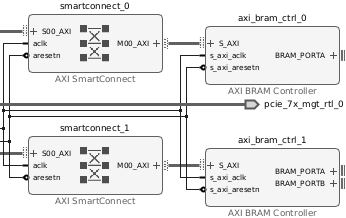
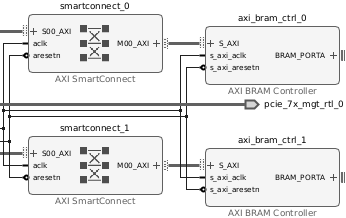
Updated XDMA Comm

Changed region(s): [[0.7803, 0.7431, 1.0, 0.8807]]

diff --git a/README.md b/README.md
@@ -109,6 +109,7 @@ The following is some minimal C code without error checking. Note `count=4` is f
 // Open M_AXI_LITE Device as Read-Write
 int xdma_userfd = open("/dev/xdma0_user", O_RDWR);
 
+#define XDMA_PCIe_to_AXI_Translation_Offset 0x40000000
 uint64_t address = 0x40010000 - XDMA_PCIe_to_AXI_Translation_Offset;
 uint32_t data_word = 0xAA55A55A;
 ssize_t rc;
@@ -146,7 +147,7 @@ sudo ./mm_axilite_test
 
 For the simple included demo, [`xdma_stream.tcl`](xdma_stream.tcl), twice as much data is sent than received. The design can be [recreated for other FPGA targets](#recreating-a-project-from-a-tcl-file). [Configuration bitstreams are available](https://github.com/mwrnd/notes/releases/v0.1.0/) for the [Innova-2](https://github.com/mwrnd/innova2_flex_xcku15p_notes).
 
-Each pair of input (H2C) floating-point values is multiplied to an output (C2H) floating-point value. To account for FIFOs built into the AXI4-Stream blocks, 16 floats (64-bytes) are sent and 8 are received. Data is sent and received to address `0` as it is a stream. The data stream sinks into **S_AXIS_C2H_?** and flows from **M_AXIS_H2C_?** interfaces. Refer to the [xdma_stream](https://github.com/mwrnd/innova2_experiments/tree/main/xdma_stream) and [xdma_stream_512bit](https://github.com/mwrnd/innova2_experiments/tree/main/xdma_stream_512bit) projects for demonstrations.
+Each pair of input (H2C) floating-point values is multiplied to an output (C2H) floating-point value. To account for FIFOs built into the AXI4-Stream blocks, 16 floats (64-bytes) are sent and 8 are received. Data is sent and received to address `0` as it is a stream. The data stream sinks into **S_AXIS_C2H_?** and flows from **M_AXIS_H2C_?** interfaces. Refer to the [xdma_stream](https://github.com/mwrnd/innova2_experiments/tree/main/xdma_stream) and [xdma_stream_512bit](https://github.com/mwrnd/innova2_experiments/tree/main/xdma_stream_512bit) projects for more complex demonstrations.
 
 ![XDMA Stream Demo Block Diagram](img/XDMA_Stream_Demo_Block_Diagram.png)
 
@@ -235,7 +236,7 @@ Add IP Blocks:
 
 #### Add XDMA Block
 
-Add XDMA Block:
+Add an XDMA Block:
 
 ![Add XDMA Block](img/Add_DMA_Bridge_Subsystem_for_PCI_Express_IP.png)
 
@@ -243,7 +244,7 @@ Run Block Automation:
 
 ![Run Block Automation](img/Run_Block_Automation.png)
 
-Choose PCIe Lane Width and Link Speed, select **AXI Memory Mapped** for the *DMA interface* and add an AXI Lite interface.
+Choose PCIe Lane Width and Link Speed compatible with your target board. Select **AXI Memory Mapped** for the *DMA interface* and add an AXI Lite interface.
 
 ![XDMA AXI Memory Mapped with AXI Lite](img/XDMA_Block_Automation_MM_and_AXILite.png)
 
@@ -255,17 +256,17 @@ Double-click the `xdma_0` Block to open it up for customization.
 
 ![XDMA Block Properties](img/XDMA_Block_Properties.png)
 
-The *PCIe Block Location* chosen should be the closest PCIE Block adjacent to the transceiver Quad that the PCIe lanes are connected to on your FPGA board. Refer to the [Device Packaging and Pinouts Product Specification User Guide](https://docs.xilinx.com/r/en-US/ug575-ultrascale-pkg-pinout/XCKU15P-and-XQKU15P-Bank-Diagrams). The PCIe Lane Width and Link Speed throughput needs to match the AXI Data Width and Clock Frequency throughput. These four settings are interrelated. Note the Data Width is 64-Bit with these selections.
+The *PCIe Block Location* chosen should be the closest PCIE Block adjacent to the transceiver Quad that the PCIe lanes are connected to on your FPGA board. Refer to the [Device Packaging and Pinouts Product Specification User Guide](https://docs.xilinx.com/r/en-US/ug575-ultrascale-pkg-pinout/XCKU15P-and-XQKU15P-Bank-Diagrams).
 
 ![FPGA Banks](img/FPGA_Banks.png)
-
-A *PCIe to AXI Translation* offset is useful to make sure the *Size* of your AXI Lite BAR overlaps the address space of all peripheral blocks. This is useful when a soft-core processor has all of its peripherals in some specific address range. The offset can be `0` or [larger than *Size*](https://support.xilinx.com/s/question/0D52E00006hpbPJSAY/pcie-to-axi-translation-setting-for-dma-bypass-interface-not-being-applied?language=en_US).
-
-![AXI Lite BAR Setup](img/XDMA_Block_Properties_AXILite_BAR_Setup.png)
 
 Set the PCIe ID to **Memory Controller** as the *Base Class* and **Other memory controller** as the *Sub Class*.
 
 ![PCIe ID Settings](img/XDMA_Settings_PCIe_ID.png)
+
+A *PCIe to AXI Translation* offset is useful to make sure the *Size* of your AXI Lite BAR overlaps the address space of all peripheral blocks. This is useful when a soft-core processor has all of its peripherals in some specific address range. The offset can be `0` or [larger than *Size*](https://support.xilinx.com/s/question/0D52E00006hpbPJSAY/pcie-to-axi-translation-setting-for-dma-bypass-interface-not-being-applied?language=en_US): `1MB==1048576==0x100000 < 0x40000000`.
+
+![AXI Lite BAR Setup](img/XDMA_Block_Properties_AXILite_BAR_Setup.png)
 
 The XDMA Driver will create a `/dev/xdma0_?` file for each channel. Multiple channels allow multiple programs or threads to access the AXI blocks in your design.
 
@@ -293,7 +294,7 @@ Add AXI BRAM Controller:
 
 ![Add AXI BRAM Controller](img/Add_AXI_BRAM_Controller_IP.png)
 
-Add blocks for each SmartConnect interface:
+Add blocks for each SmartConnect interface and connect their `S_AXIS` ports to the corresponding `M_AXIS` port of the SmartConnect blocks.
 
 ![BRAM Controller Block for each SmartConnectInterface](img/BRAM_Controller_Blocks_for_each_SmartConnect_Interface.png)
 
@@ -301,7 +302,7 @@ Run Block Automation and choose to generate a new Block Memory for each (*New Bl
 
 ![AXI BRAM Controller New Blk_Mem_Gen](img/AXI_BRAM_Controller_Block_Automation.png)
 
-A [Memory Generator Block](https://docs.xilinx.com/v/u/en-US/pg058-blk-mem-gen) should appear for each BRAM Controller.
+A [Block Memory Generator](https://docs.xilinx.com/v/u/en-US/pg058-blk-mem-gen) should appear for each BRAM Controller.
 
 ![Block Memory Generator for each BRAM Controller](img/Block_Memory_Generator_Blocks_for_each_BRAM_Controller.png)
 
@@ -309,7 +310,7 @@ Double-click the `axi_bram_ctrl_0` block connected to the PCIe **M_AXI** interfa
 
 ![M_AXI BRAM Controller Data Width is 64-Bit](img/AXI_BRAM_Controller_Block_Properties_AXI_64Bit.png)
 
-Double-click the `axi_bram_ctrl_1` block connected to the PCIe **M_AXI_LITE** interface and choose *AXI4LITE* as the AXI Protocol which forces the Data Width to 32-Bit.
+Double-click the `axi_bram_ctrl_1` block connected to the PCIe **M_AXI_LITE** interface and choose *AXI4LITE* as the AXI Protocol which forces the Data Width to 32-Bit. The Number of BRAM interfaces is set to 1 to simplify the design.
 
 ![M_AXI_LITE BRAM Controller Protocol is AXI4LITE](img/AXI_BRAM_Controller_Block_Properties_AXILite.png)
 
@@ -327,7 +328,7 @@ Open the *Address Editor* tab, right-click and select *Assign All*:
 
 ![Address Editor Assign All](img/Address_Editor_Assign_All.png)
 
-You can edit the AXI Block addresses as required. Even though each Network can have overlapping addresses, avoid this as it can lead to confusion.
+You can edit the AXI Block addresses as required. The *Range* is the size that Vivado will implement for each block. If the value is too large for your target FPGA then Implementation will fail. Even though each Network can have overlapping addresses, avoid this as it can lead to confusion.
 
 ![AXI Addresses](img/Address_Editor.png)
 
@@ -350,7 +351,11 @@ Name the Constraints File:
 
 ![Name the Constraints File](img/Create_Constraints_File.png)
 
-Double-click the `constraints.xdc` file to edit it. You will need to edit the PCIe TX/RX, Reset, and Clock signals to your board's pins. The TX/RX and Clock signals are differential but only the positive terminals need to be set as that restricts the other terminal. `CONFIG_MODE` and other `BITSTREAM` settings may also need to be set for your target board.
+Double-click the `constraints.xdc` file to edit it.
+
+![Constraints File](img/Constraints_File.png)
+
+You will need to edit the PCIe TX/RX, Reset, and Clock signals to your board's pins. The TX/RX and Clock signals are differential but only the positive terminals need to be set as that restricts the other terminal. `CONFIG_MODE` and other `BITSTREAM` settings may also need to be set for your target board.
 ```
 set_property PACKAGE_PIN AH36 [get_ports {pcie_7x_mgt_rtl_0_rxp[0]}]
 
@@ -426,7 +431,7 @@ Add IP Blocks:
 
 #### Add XDMA Stream Block
 
-Add XDMA Block:
+Add an XDMA Block:
 
 ![Add XDMA Block](img/Add_DMA_Bridge_Subsystem_for_PCI_Express_IP.png)
 
@@ -446,19 +451,19 @@ Double-click the `xdma_0` Block to open it up for customization.
 
 ![XDMA Block Properties](img/XDMA_Block_Properties_Stream.png)
 
-The *PCIe Block Location* chosen should be the closest PCIE Block adjacent to the transceiver Quad that the PCIe lanes are connected to on your FPGA board. Refer to the [Device Packaging and Pinouts Product Specification User Guide](https://docs.xilinx.com/r/en-US/ug575-ultrascale-pkg-pinout/XCKU15P-and-XQKU15P-Bank-Diagrams). The PCIe Lane Width and Link Speed throughput needs to match the AXI Data Width and Clock Frequency throughput. These four settings are interrelated. Note the Data Width is 64-Bit with these selections.
+The *PCIe Block Location* chosen should be the closest PCIE Block adjacent to the transceiver Quad that the PCIe lanes are connected to on your FPGA board. Refer to the [Device Packaging and Pinouts Product Specification User Guide](https://docs.xilinx.com/r/en-US/ug575-ultrascale-pkg-pinout/XCKU15P-and-XQKU15P-Bank-Diagrams).
 
 ![FPGA Banks](img/FPGA_Banks.png)
-
-A *PCIe to AXI Translation* offset is useful to make sure the *Size* of your AXI Lite BAR overlaps the address space of all peripheral blocks. This is useful when a soft-core processor has all of its peripherals in some specific address range. The offset can be `0` or [larger than *Size*](https://support.xilinx.com/s/question/0D52E00006hpbPJSAY/pcie-to-axi-translation-setting-for-dma-bypass-interface-not-being-applied?language=en_US).
-
-![AXI Lite BAR Setup](img/XDMA_Block_Properties_AXILite_BAR_Setup.png)
 
 Set the PCIe ID to **Memory Controller** as the *Base Class* and **Other memory controller** as the *Sub Class*.
 
 ![PCIe ID Settings](img/XDMA_Settings_PCIe_ID.png)
 
-The XDMA Driver will create a `/dev/xdma0_?` file for each channel. Each channel has its own circuit.
+A *PCIe to AXI Translation* offset is useful to make sure the *Size* of your AXI Lite BAR overlaps the address space of all peripheral blocks. This is useful when a soft-core processor has all of its peripherals in some specific address range. The offset can be `0` or [larger than *Size*](https://support.xilinx.com/s/question/0D52E00006hpbPJSAY/pcie-to-axi-translation-setting-for-dma-bypass-interface-not-being-applied?language=en_US): `1MB==1048576==0x100000 < 0x40000000`.
+
+![AXI Lite BAR Setup](img/XDMA_Block_Properties_AXILite_BAR_Setup.png)
+
+Each channel has an AXI-Stream circuit: `S_AXIS_C2H_?` or `M_AXIS_H2C_?`. The XDMA Driver will create a `/dev/xdma0_c2h_?` or `/dev/xdma0_h2c_?` file for each channel. 
 
 ![Stream DMA Channels](img/XDMA_Block_Properties_DMA_Channels.png)
 
@@ -480,13 +485,13 @@ One of the output streams is set up to be the lower 32-bits of the input and the
 
 #### Floating-Point Block
 
-Add a [Floating-Point](https://docs.xilinx.com/v/u/en-US/pg060-floating-point) block in the stream as an example of something useful. Connect its `S_AXIS` inputs to the `M??_AXIS` outputs of the *AXI4-Stream Broadcaster*. Each pair of 32-bit=4-byte single precision floating-point values in the 64-Bit=8-Byte Host-to-Card (H2C) stream gets multiplied to produce a floating-point value in the 64-Bit=8-Byte Card-to-Host (C2H) stream. Half as many reads from C2H are necessary as writes to H2C.
+Add a [Floating-Point](https://docs.xilinx.com/v/u/en-US/pg060-floating-point) block to the stream as an example of something useful. Connect its `S_AXIS` inputs to the `M??_AXIS` outputs of the *AXI4-Stream Broadcaster*. Each pair of 32-bit=4-byte single precision floating-point values in the 64-Bit=8-Byte Host-to-Card (H2C) stream gets multiplied to produce a floating-point value in the 64-Bit=8-Byte Card-to-Host (C2H) stream. Half as many reads from C2H are necessary as writes to H2C.
 
 The floating-point blocks are set up to multiply their inputs.
 
 ![Floating-Point Block Settings](img/Floating-Point_Settings.png)
 
-Full DSP usage is allowed to maximize throughput.
+Full DSP usage is set to maximize throughput.
 
 ![Floating-Point Block Optimization Settings](img/Floating-Point_Optimizations.png)
 
@@ -508,7 +513,7 @@ Set it up to convert its 32-Bit=4-Byte input into a 64-Bit=8-Byte output compati
 
 #### M_AXI_LITE Addresses
 
-Set an *M_AXI_LITE* Address for the BRAM Block.
+If you decide to [add a BRAM Block](#add-bram-controller-blocks) to the *M_AXI_LITE* port, set up its addresses.
 
 ![Set M_AXI_LITE Addresses](img/xdma_stream_AXILite_Addresses.png)
 
@@ -562,7 +567,7 @@ Select all the IP check boxes and run *Upgrade Selected*.
 
 ![Upgrade IP](img/Show_IP_Status_then_Upgrade_Selected.png)
 
-The IP should upgrade successfully if it is not too different an FPGA. Note that constraints will also need to be updated if the package has changed.
+The IP should upgrade successfully if it is not too different an FPGA.
 
 ![IP Successfully Upgraded](img/IP_Successfully_Upgraded.png)
 
@@ -583,14 +588,14 @@ Generate the Bitstream:
 
 ## Install dma_ip_drivers
 
-Download and extract the March 18, 2022, commit 7859957 version of Xilinx's [DMA IP Drivers](https://github.com/Xilinx/dma_ip_drivers/tree/785995783c78b2cbec6458141c4395e204c5bd9b).
+Download and extract the November 10, 2023, commit a93d4a4 version of Xilinx's [DMA IP Drivers](https://github.com/Xilinx/dma_ip_drivers/tree/a93d4a4870e41d152b33aebb3f869eefb11aa691).
 ```Shell
 cd ~
-wget https://codeload.github.com/Xilinx/dma_ip_drivers/zip/785995783c78b2cbec6458141c4395e204c5bd9b -O dma_ip_drivers-7859957.zip
-unzip dma_ip_drivers-7859957.zip
-mv dma_ip_drivers-785995783c78b2cbec6458141c4395e204c5bd9b dma_ip_drivers
+wget https://codeload.github.com/Xilinx/dma_ip_drivers/zip/a93d4a4870e41d152b33aebb3f869eefb11aa691 -O dma_ip_drivers-a93d4a4.zip
+unzip dma_ip_drivers-a93d4a4.zip
+mv dma_ip_drivers-a93d4a4870e41d152b33aebb3f869eefb11aa691 dma_ip_drivers
 
-cd ~/dma_ip_drivers/XDMA/linux-kernel/xdma/
+cd dma_ip_drivers/XDMA/linux-kernel/xdma/
 make DEBUG=1
 sudo make install
 
